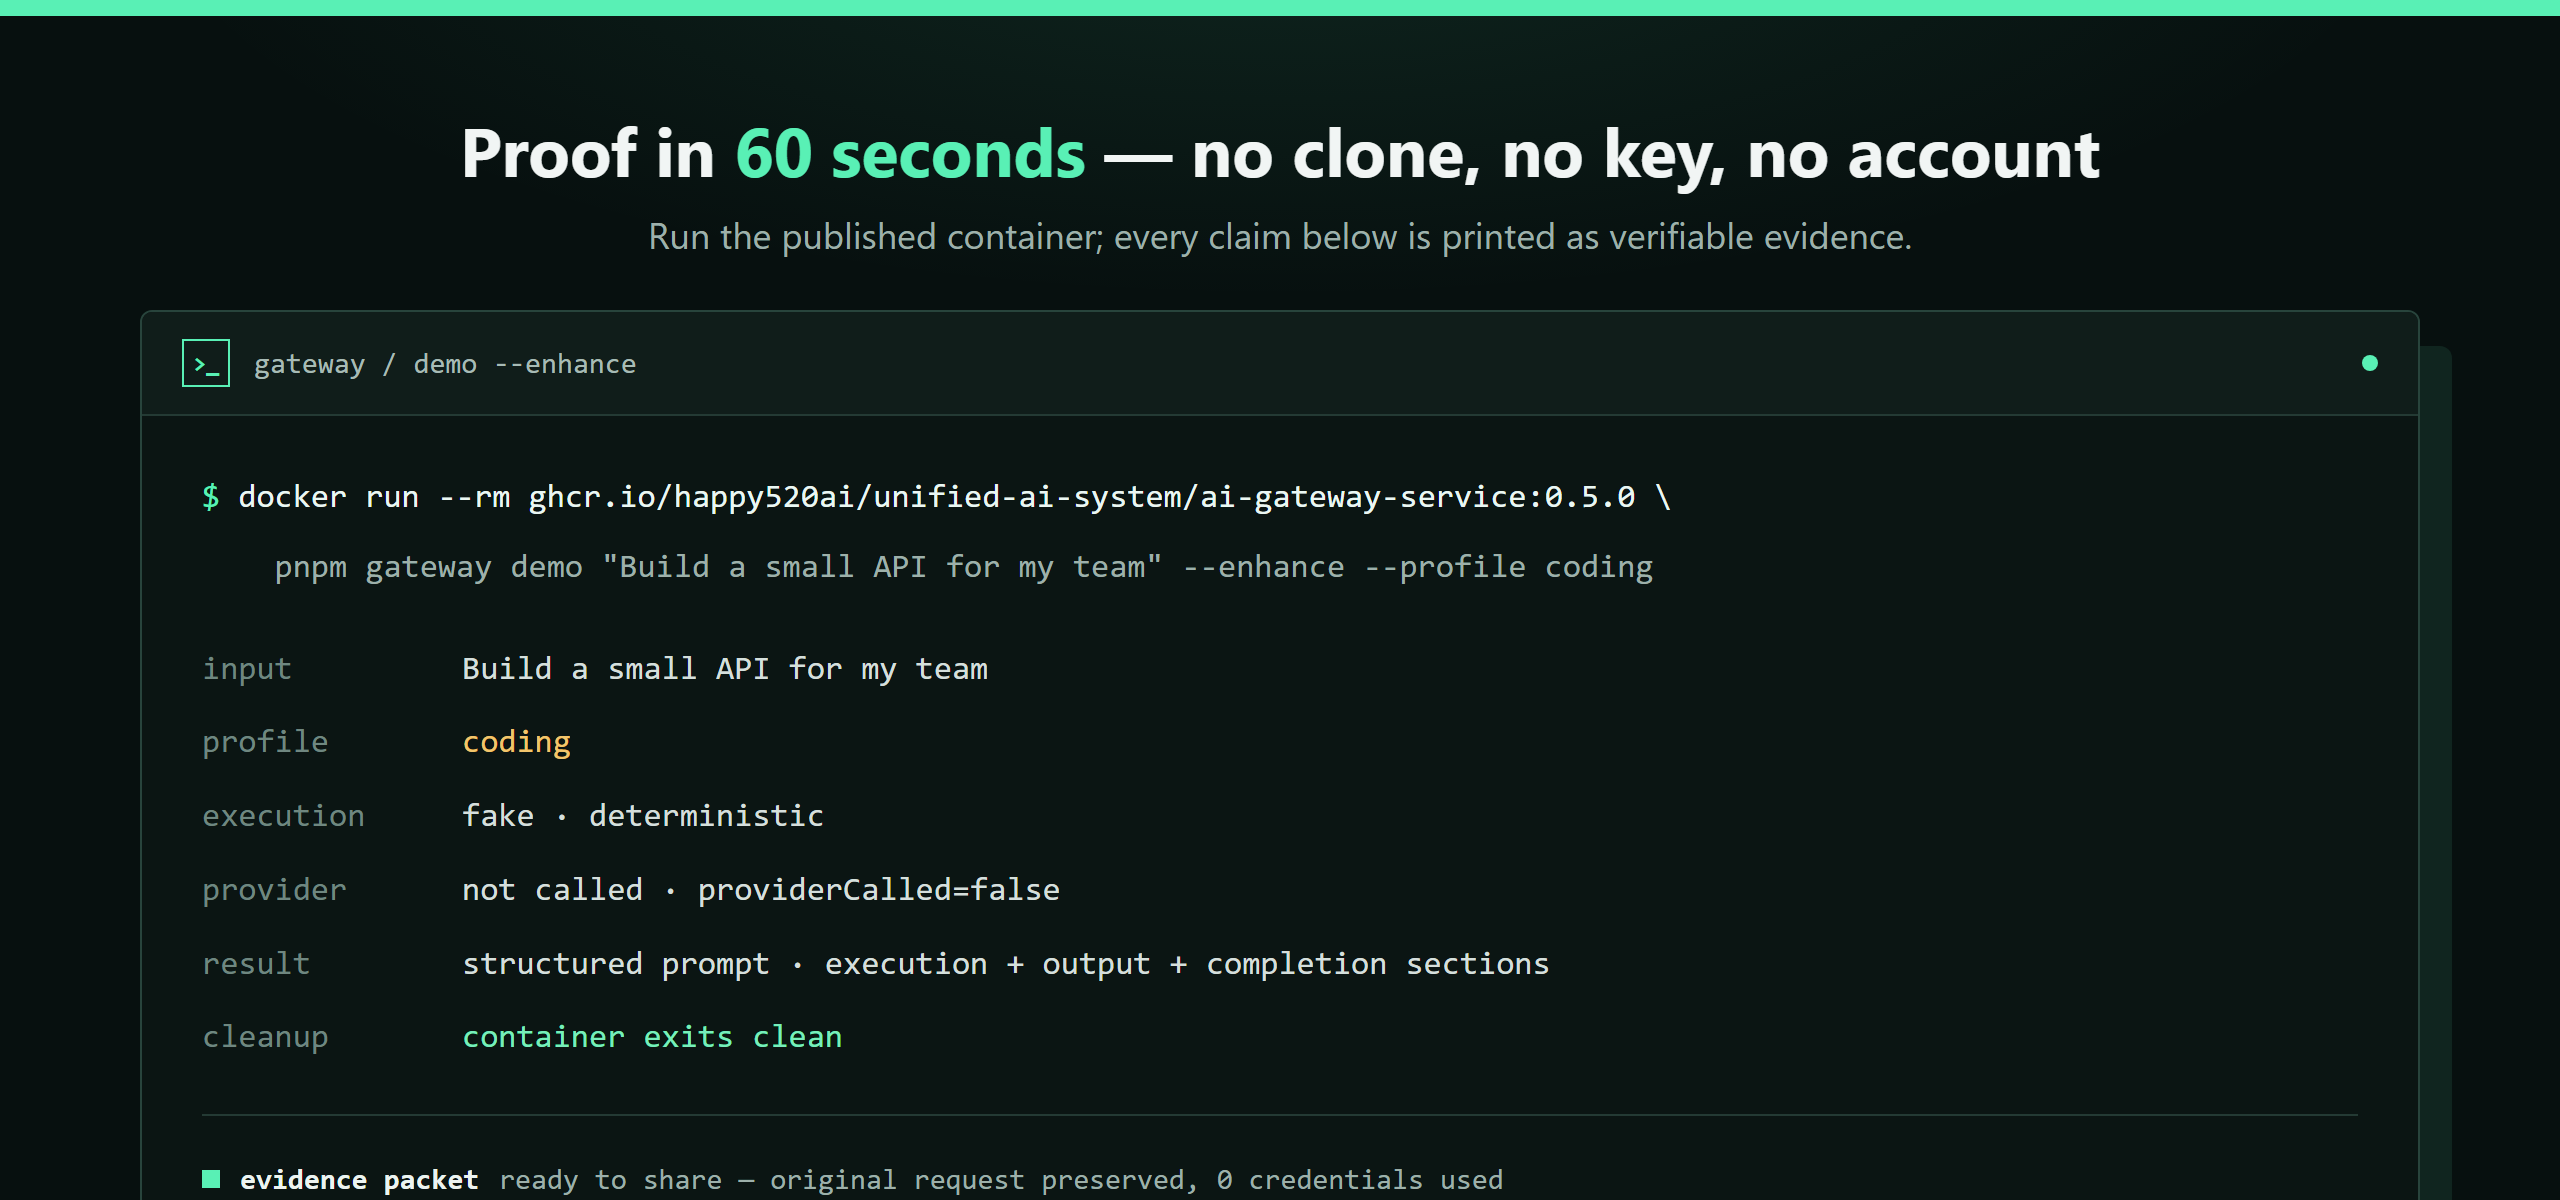
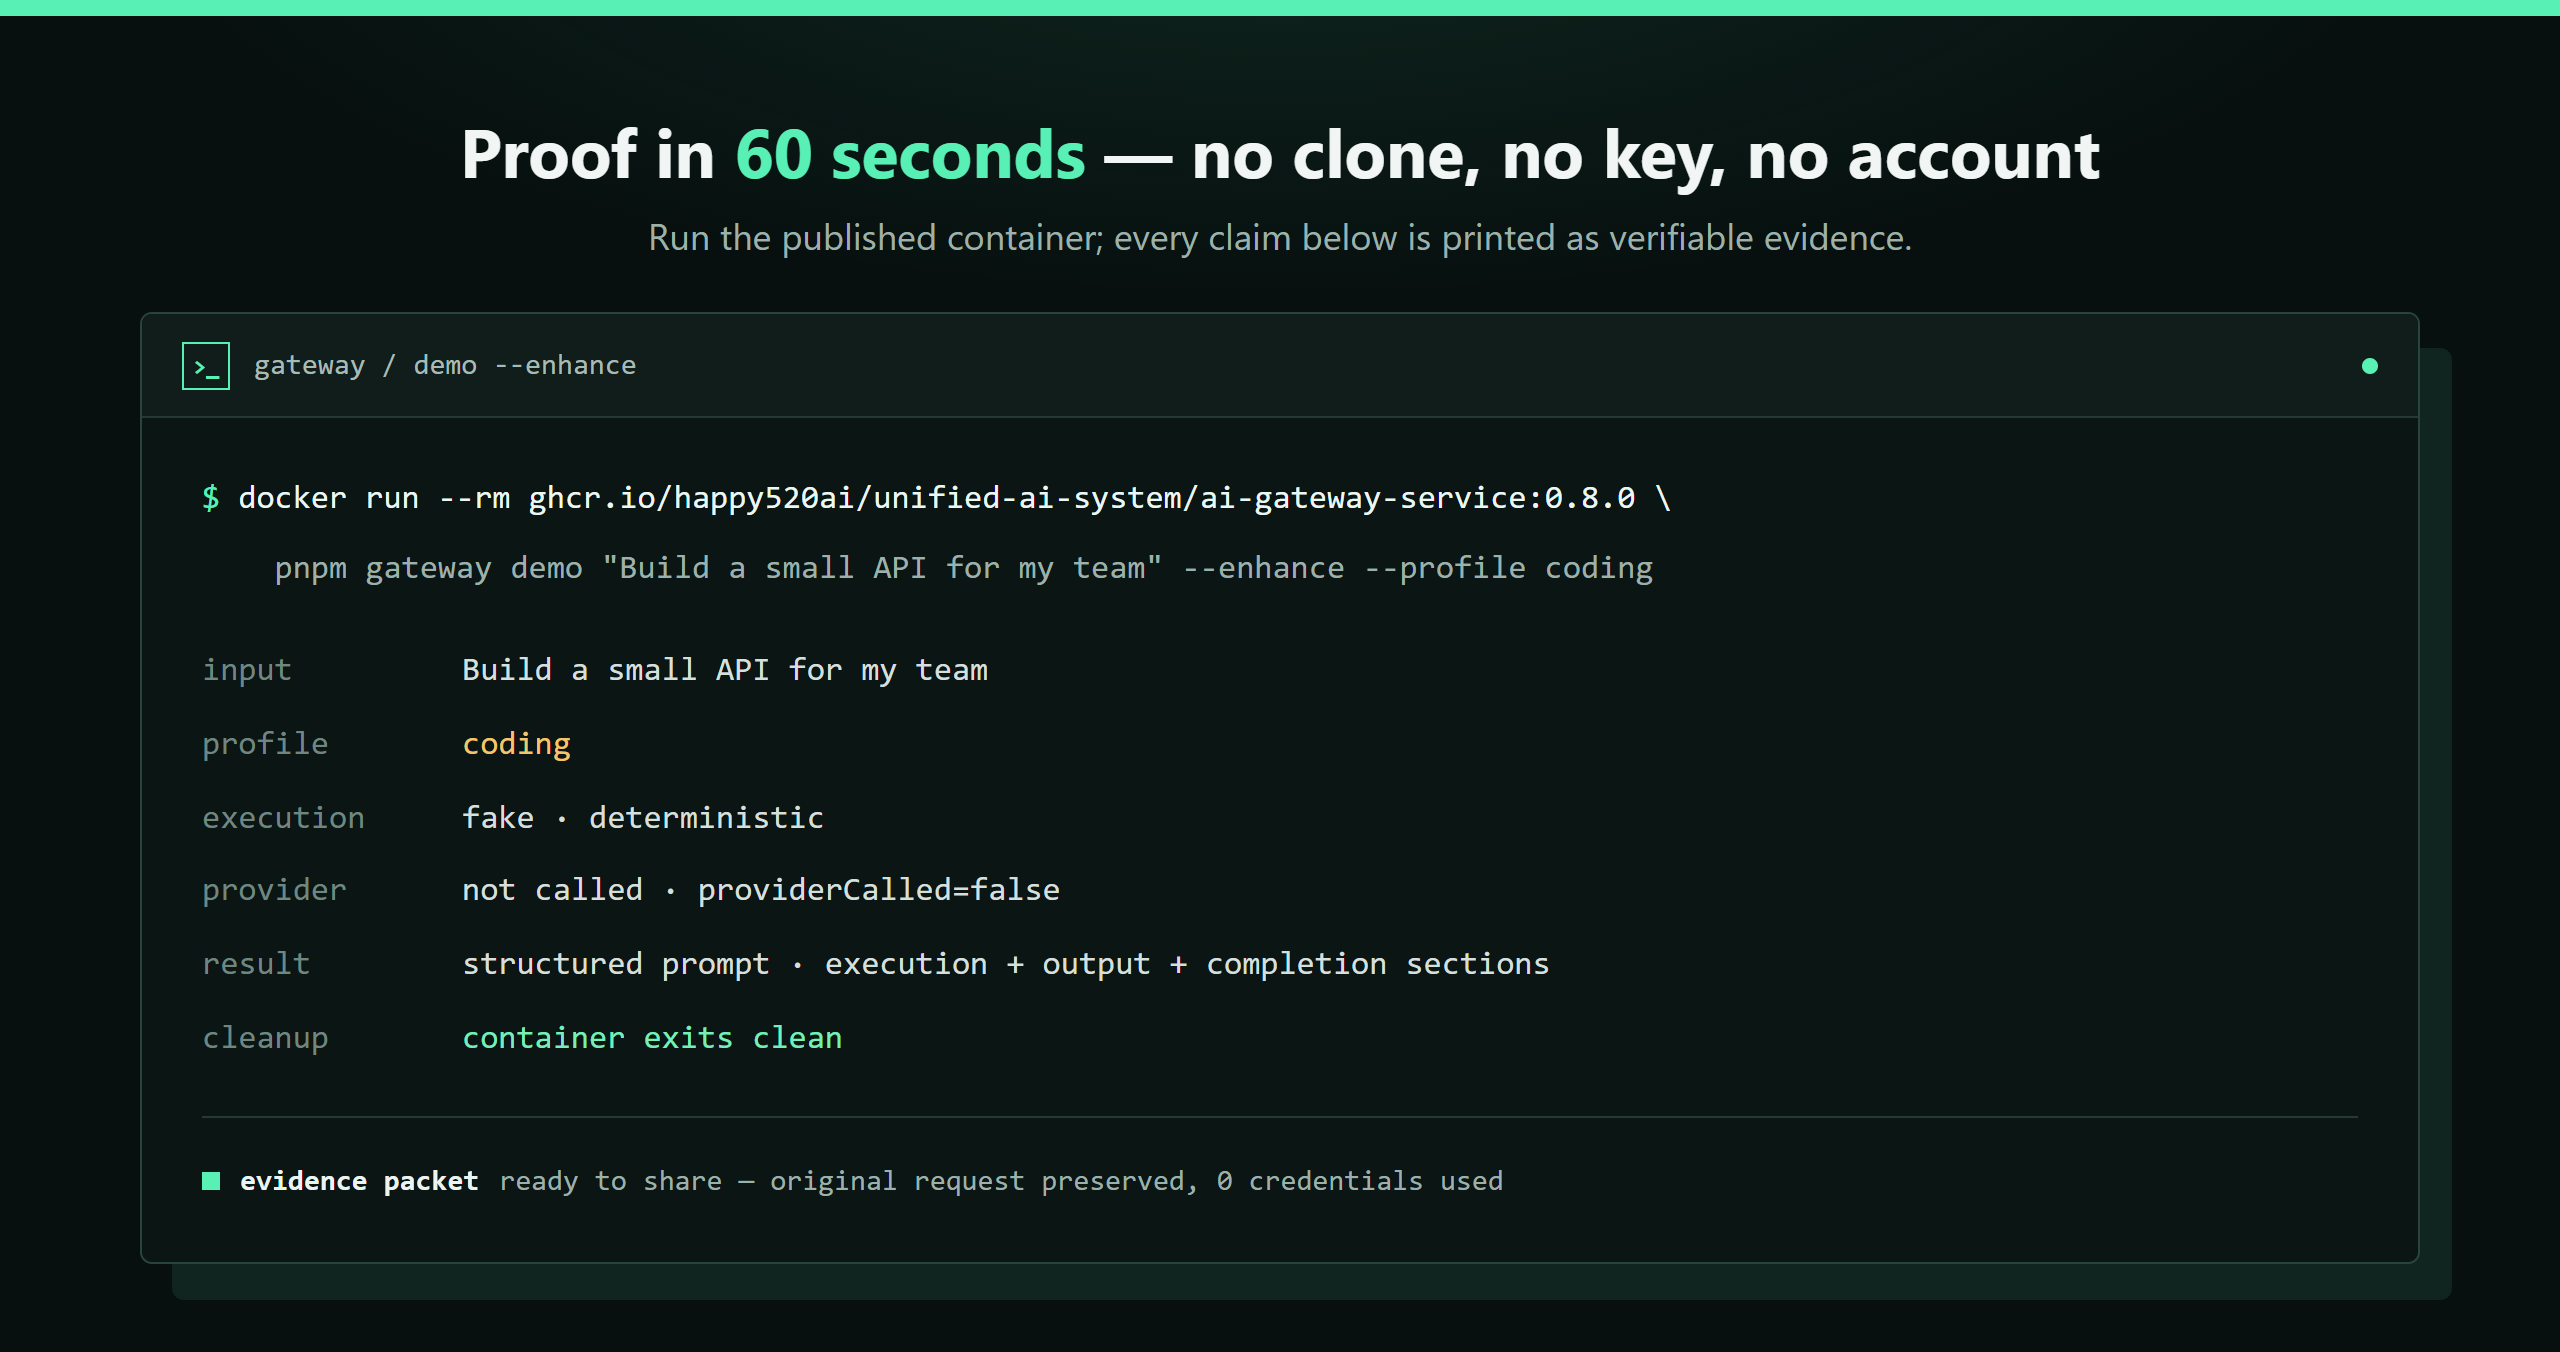
fix(assets): render the front-page images from what the code actually ships
These PNGs are committed render artifacts and nothing rebuilt them, so they
drifted from the sources they come from. The og:image every HN, X and Slack
preview shows, and the README hero, still advertised 12 governed tools after
v0.8.0 shipped 15; the README terminal still told readers to pull
ai-gateway-service:0.5.0 while its own HTML said 0.8.0. Two were also cut by
their own overflow:hidden frame: the tool roster band has never once appeared in
a published architecture image, and the terminal's evidence-packet footer was
half a line above the crop.

- docs/assets: say 15, list all 15 roster names including the three
  agent_governance_* tools, and give the two clipped canvases their content
  height (948, 676).
- docs/assets/marketing-assets.json: one geometry manifest read by both the
  renderer and the gate, so the two cannot disagree about a canvas.
- render-marketing-asset.mjs replaces the single-asset script and fails when a
  drawn block reaches past the frame, the only signal overflow:hidden leaves.
- tools/public-repo-check.mjs derives the marketing tool-count markers from
  MCP_TOOL_NAMES instead of pinning "12", rejects any other count in all four
  asset files, and compares each committed PNG's pixels against the manifest.
  The two pinned "9" strings are subsumed by the derived arm, which was shown to
  catch 9, 12 and 20 alike on restored fixtures.

Language Selection (docs/language-selection-playbook.md):
[…]

diff --git a/docs/assets/social-preview-source.html b/docs/assets/social-preview-source.html
@@ -231,7 +231,7 @@
         <p class="promise">One governed boundary for models, agents, tools, and evidence.</p>
         <div class="clients">CODEX <span>/</span> CURSOR <span>/</span> CLINE</div>
         <div class="proof">
-          <span><strong>12</strong> governed tools</span>
+          <span><strong>15</strong> governed tools</span>
           <span>No API key to start</span>
           <span>Self-hosted</span>
         </div>
@@ -248,7 +248,7 @@
           <div class="row"><span class="label">input</span><span class="value">Build a small API for my team</span></div>
           <div class="row"><span class="label">profile</span><span class="value accent">coding</span></div>
           <div class="row"><span class="label">provider</span><span class="value">not called</span></div>
-          <div class="row"><span class="label">tools</span><span class="value">12 ready</span></div>
+          <div class="row"><span class="label">tools</span><span class="value">15 ready</span></div>
           <div class="row"><span class="label">result</span><span class="value success">structured prompt + evidence</span></div>
           <div class="terminal-footer">Local verification complete</div>
         </div>

diff --git a/docs/assets/readme-architecture.html b/docs/assets/readme-architecture.html
@@ -5,7 +5,7 @@
 <style>
   :root { color-scheme: dark; }
   * { box-sizing: border-box; margin: 0; }
-  html, body { width: 1280px; height: 760px; overflow: hidden; }
+  html, body { width: 1280px; height: 948px; overflow: hidden; }
   body {
     padding: 52px 60px 44px;
     background:
@@ -95,13 +95,16 @@
     </div>
   </div>
   <div class="tools">
-    <h3>12 governed MCP tools — inspectable from any MCP client</h3>
+    <h3>15 governed MCP tools — inspectable from any MCP client</h3>
     <div class="toolchips">
       <span class="tc"><b>gateway</b>_prompt_enhance</span>
       <span class="tc"><b>gateway</b>_prompt_enhance_llm</span>
       <span class="tc"><b>gateway</b>_chat</span>
       <span class="tc"><b>gateway</b>_health</span>
       <span class="tc"><b>gateway</b>_readiness</span>
+      <span class="tc"><b>agent_governance</b>_status</span>
+      <span class="tc"><b>agent_governance</b>_list</span>
+      <span class="tc"><b>agent_governance</b>_describe</span>
       <span class="tc"><b>knowledge</b>_readiness</span>
       <span class="tc"><b>knowledge</b>_retrieve</span>
       <span class="tc"><b>workflow</b>_run</span>

diff --git a/docs/assets/readme-hero.html b/docs/assets/readme-hero.html
@@ -46,7 +46,7 @@
     OPENAI SDK <span class="sep">·</span> ANTHROPIC <span class="sep">·</span> MCP / CODEX / CURSOR / CLINE <span class="sep">·</span> A2A <span class="sep">·</span> CLI <span class="sep">·</span> HTTP
   </div>
   <div class="stats">
-    <div class="stat"><b>12</b> governed MCP tools</div>
+    <div class="stat"><b>15</b> governed MCP tools</div>
     <div class="stat"><b>4</b> release gates</div>
     <div class="stat"><b>23</b> attack cases defended</div>
     <div class="stat"><b>0</b> credentials to start</div>

diff --git a/docs/assets/readme-terminal.html b/docs/assets/readme-terminal.html
@@ -5,7 +5,7 @@
 <style>
   :root { color-scheme: dark; }
   * { box-sizing: border-box; margin: 0; }
-  html, body { width: 1280px; height: 600px; overflow: hidden; }
+  html, body { width: 1280px; height: 676px; overflow: hidden; }
   body {
     padding: 44px 70px;
     background:
